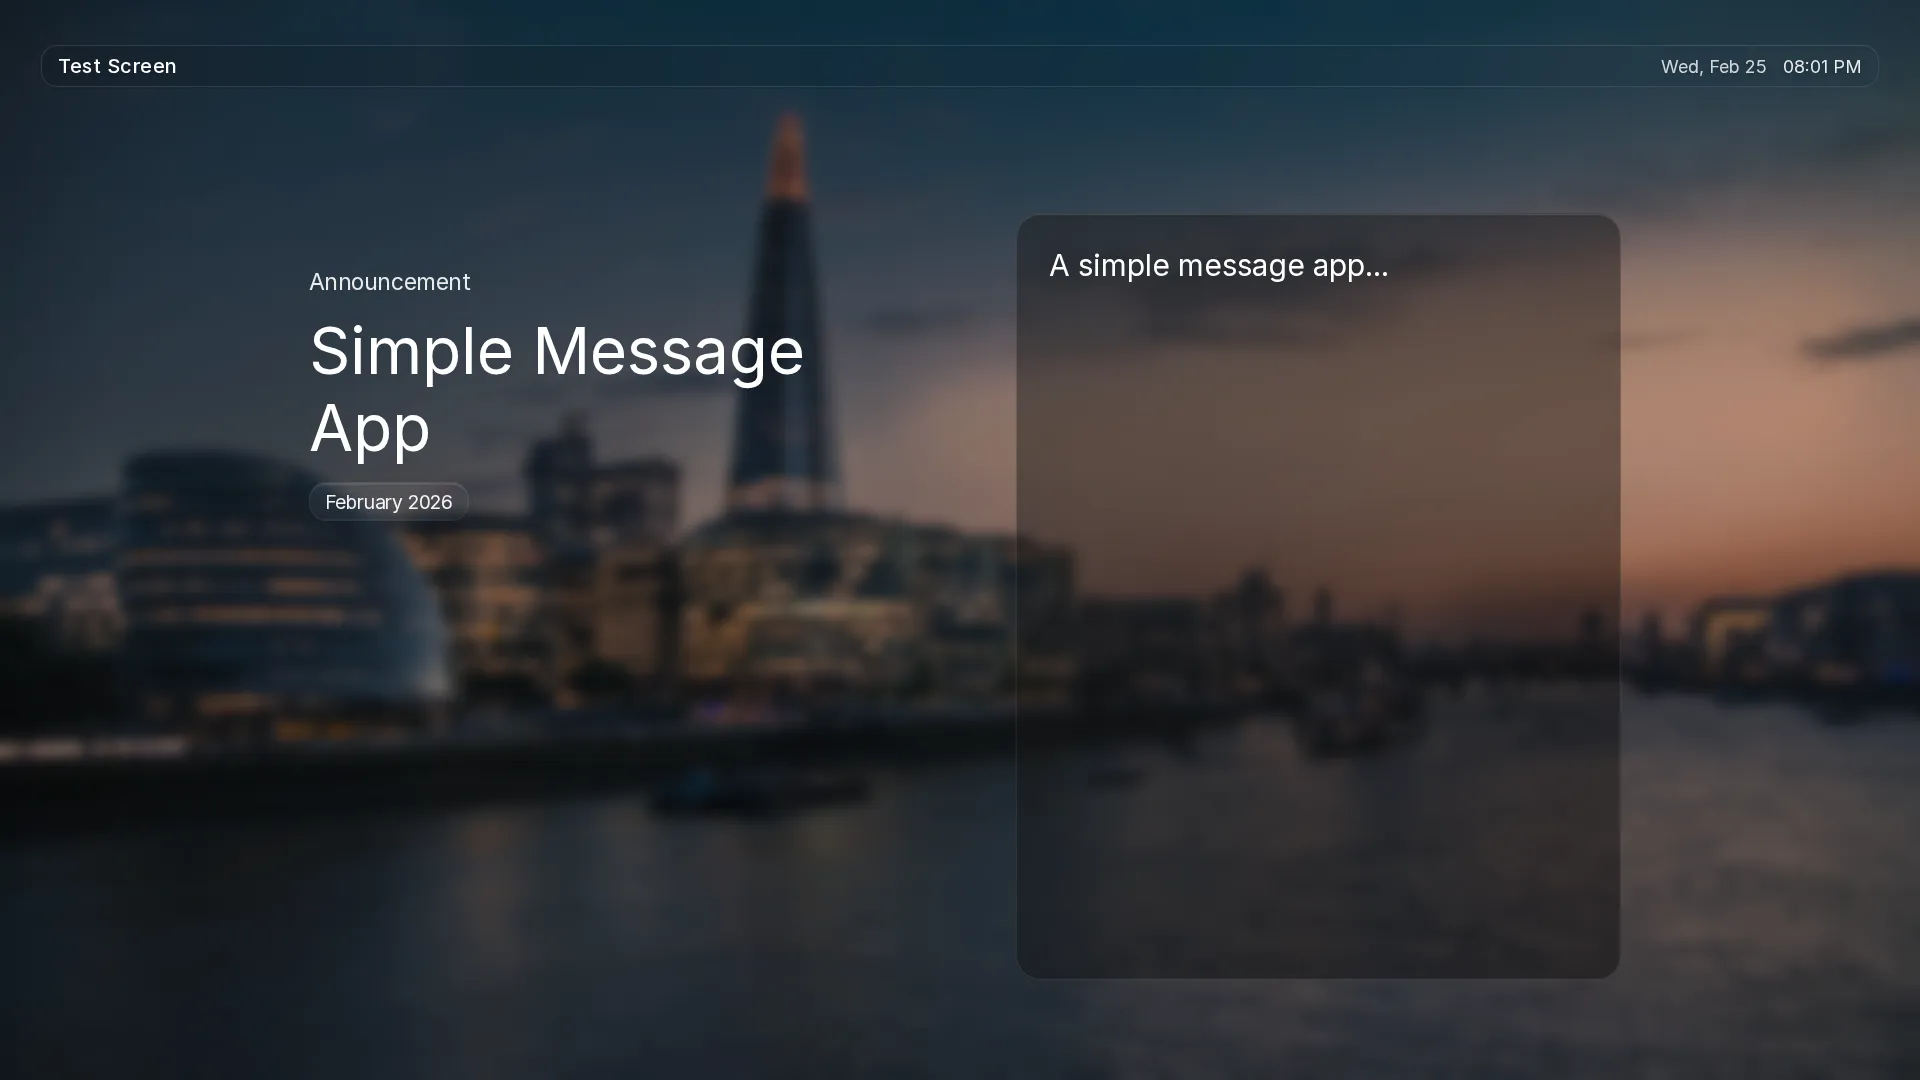
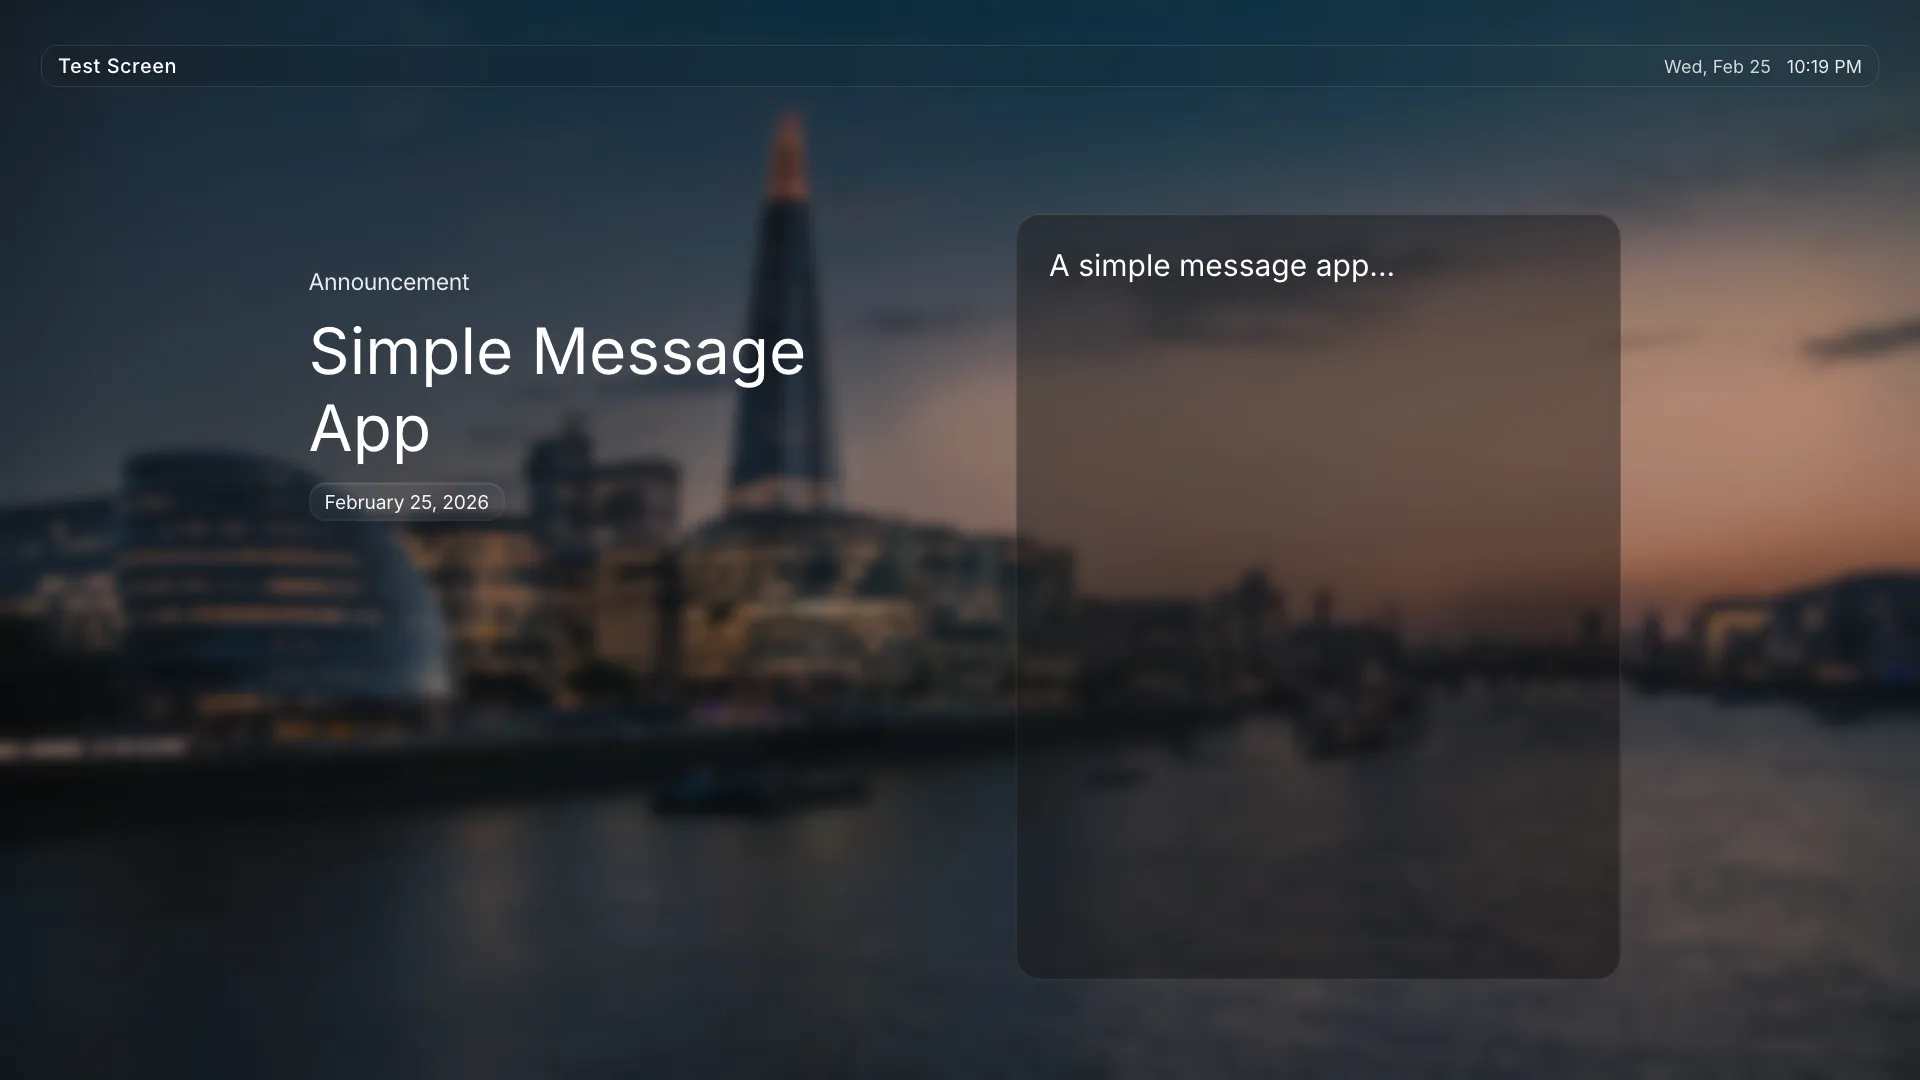
fix(simple-message-app): address code review comments in main.ts
- Align `message_body` default with manifest and remove falsy guard
- Remove manual `theme` setting read and `data-theme` attribute assignment
- Replace raw locale/timezone handling with `getLocale`, `getTimeZone`, and `formatLocalizedDate` from the edge-apps library

diff --git a/edge-apps/simple-message-app-new/src/main.ts b/edge-apps/simple-message-app-new/src/main.ts
@@ -1,18 +1,18 @@
 import './css/style.css'
 import '@screenly/edge-apps/components'
 import {
+  formatLocalizedDate,
+  getLocale,
   getSettingWithDefault,
+  getTimeZone,
   setupErrorHandling,
   setupTheme,
   signalReady,
 } from '@screenly/edge-apps'
 
-document.addEventListener('DOMContentLoaded', () => {
+document.addEventListener('DOMContentLoaded', async () => {
   setupErrorHandling()
   setupTheme()
-
-  const theme = getSettingWithDefault<string>('theme', 'light')
-  document.body.setAttribute('data-theme', theme)
 
   const messageHeader = getSettingWithDefault<string>(
     'message_header',
@@ -24,28 +24,24 @@ document.addEventListener('DOMContentLoaded', () => {
     messageHeaderEl.textContent = messageHeader
   }
 
-  const messageBody = getSettingWithDefault<string>('message_body', '')
+  const messageBody = getSettingWithDefault<string>(
+    'message_body',
+    'A simple message app allows users to display text on a screen, making it a\nbasic tool for digital signage. Users can input and edit both the heading\nand message body directly from the Screenly dashboard.\n',
+  )
   const messageBodyEl = document.querySelector<HTMLDivElement>('#message-body')
-  if (messageBodyEl && messageBody) {
+  if (messageBodyEl) {
     messageBodyEl.textContent = messageBody
   }
 
-  const overrideLocale = getSettingWithDefault<string>('override_locale', 'en')
-  const overrideTimezone = getSettingWithDefault<string>(
-    'override_timezone',
-    '',
-  )
   const dateBadgeEl = document.querySelector<HTMLDivElement>('#date-badge')
   if (dateBadgeEl) {
+    const [locale, timezone] = await Promise.all([getLocale(), getTimeZone()])
     const now = new Date()
-    const options: Intl.DateTimeFormatOptions = {
+    dateBadgeEl.textContent = formatLocalizedDate(now, locale, {
       month: 'long',
       year: 'numeric',
-    }
-    if (overrideTimezone) {
-      options.timeZone = overrideTimezone
-    }
-    dateBadgeEl.textContent = now.toLocaleDateString(overrideLocale, options)
+      timeZone: timezone,
+    })
   }
 
   signalReady()
